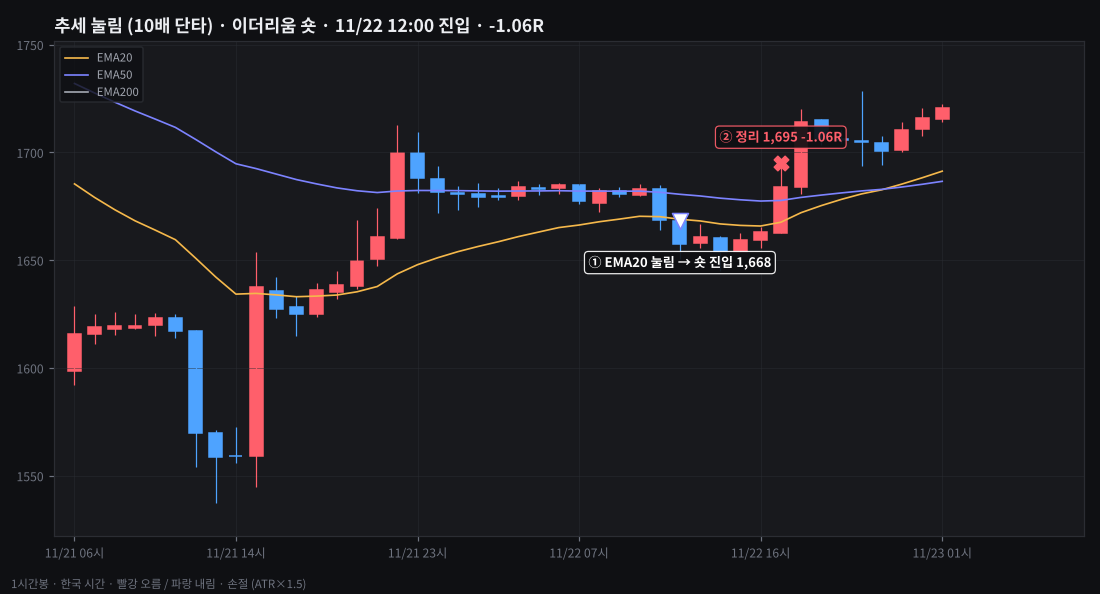
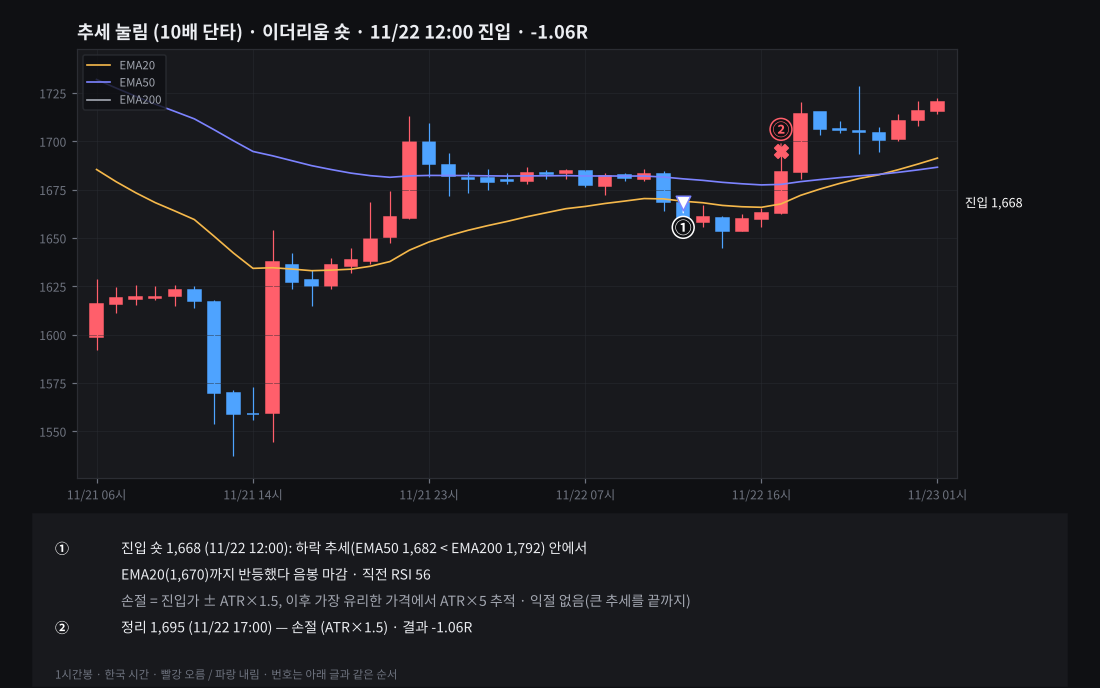
매매 차트 개선(형: 글·차트 겹침): 차트엔 번호만, 아래 글 칸에 왜·어느 구간에서 샀는지·손절/목표 근거·정리 이유·결과. 끝난 매매마다 자동 피드백(유리/불리 R, 손절 뒤 흐름, 2년 시험 특징 칸 성적), 30번↑ 쌓이면 종합 피드백
Claude-Session: https://claude.ai/code/session_01MmLTdxLKFpnJAK7WRLz1e2

diff --git a/assets/desk.js b/assets/desk.js
@@ -269,7 +269,7 @@ const DeskUI = (() => {
           <h5>진입 이유</h5><ul>${(j.why_in || []).map((x) => `<li>${esc(x)}</li>`).join("")}</ul>
           ${(j.partial || []).map((x) => `<h5>부분 익절</h5><p class="small">${tm(x.at)} · ${x.px} · ${esc(x.why)} · ${x.pnl >= 0 ? "+" : ""}$${x.pnl}</p>`).join("")}
           ${j.exit != null ? `<h5>${j.R > 0 ? "익절" : "손절"} 이유</h5><p class="small">${tm(j.out_at)} · ${j.exit} · ${esc(j.why_out)} · ${j.pnl >= 0 ? "+" : ""}$${j.pnl} · ${j.bars}봉 보유 · 최대 유리 +${j.mfe}% / 최대 불리 −${j.mae}%</p>
-          <h5>피드백</h5><ul>${(j.feedback || []).map((x) => `<li>${esc(x)}</li>`).join("")}</ul>` : ""}
+          <h5>피드백</h5><ul>${(j.feedback || []).concat(((SM.charts || {})[`${j.tag === "AMD" ? "amd" : j.tag === "오더블록" ? "ob" : SM.acct === "amd" ? "amd" : "ob"}:${j.sym}|${String(j.in_at || "").slice(0, 16).replace("T", " ")}`] || {}).fb || []).map((x) => `<li>${esc(x)}</li>`).join("")}</ul>` : ""}
         </div></details>`).join("")}
       ${(O && O.skips && O.skips.length) ? `<details class="ob-j"><summary><span class="ob-j-t"><b>진입 안 한 자리 ${O.skips.length}개</b> <span class="muted small">구간에 안 닿음 · 무효화 · 손익비 부족</span></span></summary><div class="ob-j-b"><ul>${O.skips.slice(-30).reverse().map((x) => `<li class="small">${esc(COINNM[x.sym] || x.sym)} ${esc(x.side)} ${x.entry} — ${esc(x.why)}</li>`).join("")}</ul></div></details>` : ""}`;
   }

diff --git a/index.html b/index.html
@@ -727,7 +727,7 @@
   <script src="assets/home.js?v=b6ddf735"></script>
   <script src="assets/company.js?v=89c6430f"></script>
   <script src="assets/invest.js?v=d55ba1ff"></script>
-  <script src="assets/desk.js?v=def69a6f"></script>
+  <script src="assets/desk.js?v=fc7e649d"></script>
   <script src="assets/gloss.js?v=af1d950e"></script>
   <script src="assets/app.js?v=3cbac30c"></script>
 </body>

diff --git a/scripts/trade_charts.py b/scripts/trade_charts.py
@@ -76,13 +76,14 @@ def collect():
             k = key_of(J["sym"], J["in_at"], kind)
             jobs.setdefault(k, dict(kind=kind, sym=J["sym"], side=-1 if J.get("side") == "숏" else 1, t_in=J["in_at"], fill=J.get("fill"), stop=J.get("stop"),
                                     target=J.get("target"), t_out=J.get("out_at"), exit=J.get("exit"), R=J.get("R"), why_out=J.get("why_out"),
-                                    partial=J.get("partial") or [], ob=J.get("ob"), amd=parse_amd(J) if kind == "amd" else None, accts=[]))["accts"].append(fn)
+                                    partial=J.get("partial") or [], ob=J.get("ob"), amd=parse_amd(J) if kind == "amd" else None, why_list=J.get("why_in") or [],
+                                    feat=J.get("feat"), risk_pct=J.get("risk_pct"), accts=[]))["accts"].append(fn)
         for T in S.get("trades") or []:
             sym = T.get("sym") or "BTC-USD"
             if kind == "tr" or (kind.startswith("ma") and T.get("in") and T.get("out")):
                 k = key_of(sym, T["in"], kind)
                 jobs.setdefault(k, dict(kind=kind, sym=sym, side=T.get("side", 1), t_in=T["in"], fill=T.get("entry"), stop=None, target=None,
-                                        t_out=T.get("out"), exit=T.get("exit"), R=T.get("R"), pl=T.get("pl"), why_out=T.get("why"), why_in=T.get("entry_why"), accts=[]))["accts"].append(fn)
+                                        t_out=T.get("out"), exit=T.get("exit"), R=T.get("R"), pl=T.get("pl"), why_out=T.get("why"), why_in=T.get("entry_why"), feat=T.get("feat"), accts=[]))["accts"].append(fn)
         pos = S.get("pos")
         if isinstance(pos, dict) and pos and "side" in pos and ("since" in pos or "at" in pos) and kind == "ma10":
             pos = {"BTC-USD": pos}
@@ -95,12 +96,12 @@ def collect():
                 continue
             k = key_of(sym, t_in, kind)
             jobs.setdefault(k, dict(kind=kind, sym=sym, side=p.get("side", 1), t_in=t_in, fill=p.get("entry"), stop=p.get("stop"), target=None, t_out=None, exit=None,
-                                    why_in=p.get("why"), accts=[]))["accts"].append(fn)
+                                    why_in=p.get("why"), feat=p.get("feat"), accts=[]))["accts"].append(fn)
     return jobs
 
 
 def sig(J):
-    return hashlib.md5(json.dumps({k: J.get(k) for k in ("t_out", "exit", "stop", "partial")}, sort_keys=True, default=str).encode()).hexdigest()[:8]
+    return "v2" + hashlib.md5(json.dumps({k: J.get(k) for k in ("t_out", "exit", "stop", "partial")}, sort_keys=True, default=str).encode()).hexdigest()[:8]
 
 
 def bars(sym, iv):
@@ -110,11 +111,100 @@ def bars(sym, iv):
     return d[["open", "high", "low", "close"]]
 
 
+EDGE = None
+
+
+def edge_notes(J):
+    """진입 순간 특징을 2년 시험 '특징 지도'(data/us/edge.json)와 비교 — 이 자리가 과거에 좋은 칸이었나"""
+    global EDGE
+    if EDGE is None:
+        EDGE = j("edge.json") or {}
+    fk = {"ob": "ob", "amd": "amd", "tr": "tr10"}.get(J["kind"]); F = (EDGE.get("formulas") or {}).get(fk) if fk else None
+    ft = J.get("feat") or {}
+    if not F or not ft:
+        return []
+    lab = EDGE.get("labels", {}); out = []
+    for c in list(F.get("spread", {}))[:3]:
+        v = ft.get(c)
+        if v is None or c not in F["map"]:
+            continue
+        for b in F["map"][c]:
+            try:
+                lo, hi = (float(x) for x in b["b"].split("~"))
+            except ValueError:
+                if str(b["b"]) == str(v):
+                    out.append(f"{lab.get(c, c)} {v} → 2년 시험 같은 칸 평균 {b['R']:+.2f}R ({b['n']}번)")
+                break
+            if lo <= float(v) <= hi:
+                out.append(f"{lab.get(c, c)} {v} → 2년 시험 같은 칸 평균 {b['R']:+.2f}R ({b['n']}번)"); break
+    return out
+
+
+def feedback(J, d):
+    """끝난 매매 하나하나 자동 피드백 (11/23 형: 매매 끝나면 하나씩 피드백 → 쌓이면 종합 피드백)"""
+    if not J.get("t_out") or J.get("exit") is None or not J.get("fill"):
+        return []
+    s = J["side"]; e = J["fill"]; t0, t1 = ts(J["t_in"]), ts(J["t_out"])
+    risk = abs(e - J["stop"]) if J.get("stop") else (e * 0.07 if J["kind"].startswith("ma") else None)
+    held = d[(d.index > t0) & (d.index <= t1)]; after = d[(d.index > t1)].iloc[:24]      # 진입 봉은 빼고 (봉 안에서 진입 전 움직임이 섞임)
+    fb = []
+    if risk and len(held):
+        mfe = ((held.high.max() - e) if s > 0 else (e - held.low.min())) / risk; mae = ((e - held.low.min()) if s > 0 else (held.high.max() - e)) / risk
+        fb.append(f"보유 {len(held)}봉 동안 가장 유리했을 때 {mfe:+.1f}R · 가장 불리했을 때 −{max(0, mae):.1f}R")
+        R = J.get("R")
+        if R is not None and R <= -0.8:
+            if mfe >= 1:
+                fb.append("1R 넘게 갔다가 손절로 끝남 → '1R에서 본전 손절' 규칙이 있었으면 손실 없이 끝났을 자리 (같은 사례가 쌓이면 시험)")
+            if len(after) and J.get("target") and ((after.low.min() <= J["target"]) if s < 0 else (after.high.max() >= J["target"])):
+                fb.append("손절 뒤 24봉 안에 목표가까지 감 → 방향은 맞았는데 손절이 좁았던 자리 (쌓이면 손절 폭 시험)")
+            elif len(after):
+                fb.append("손절 뒤에도 반대로 더 감 → 손절이 맞았던 자리 (진입 근거가 틀림)")
+        if R is not None and R > -0.8 and len(after):
+            more = ((e - after.low.min()) if s < 0 else (after.high.max() - e)) / risk
+            if more >= 2:
+                fb.append(f"정리 뒤 24봉 안에 진입가 기준 {more:+.1f}R까지 더 감 → 나머지를 더 길게 가져가는 방법(추적 손절)을 시험할 거리")
+    fb += edge_notes(J)
+    return fb
+
+
+def steps(J):
+    """그림 아래 글: 왜·어디서 샀는지, 손절·목표 근거, 어떻게 끝났는지"""
+    sd = "숏" if J["side"] < 0 else "롱"; k = J["kind"]; L = []
+    W = J.get("why_list") or []
+    tk = lambda t: ts(t).tz_convert(KST).strftime("%m/%d %H:%M") if t else ""
+    if k == "ob":
+        ob = J.get("ob") or {}
+        lo, hi = sorted([J["fill"], J["stop"]])
+        L.append(("①", f"오더블록: {tk(ob.get('t'))} — " + (re.sub(r" \(.*?UTC\)", "", W[0]) if W else "") + (" · " + W[2].split(" — ")[0] if len(W) > 2 else "")))
+        L.append(("②", f"진입: 가격이 오더블록 구간 {f(lo)}~{f(hi)}로 되돌아와 {'아래쪽 경계' if J['side'] < 0 else '위쪽 경계'} {f(J['fill'])}에 닿을 때 {sd} ({tk(J['t_in'])})"))
+        L.append(("", f"손절 {f(J['stop'])} = 오더블록 꼬리 끝 ({J.get('risk_pct') or ''}%) · 1차 목표 {f(J.get('target'))} = 오더블록 직후 파동 {'저점' if J['side'] < 0 else '고점'}"))
+    elif k == "amd":
+        A = J.get("amd") or {}
+        L.append(("①", f"매집: {tk(A.get('box_from'))}부터 24봉 박스 {f(A.get('blo'))}~{f(A.get('bhi'))} · 거래가 가장 많이 몰린 가격(POC) {f(A.get('poc'))}"))
+        if A.get("ext"):
+            L.append(("②", f"조작: 박스 {'위' if J['side'] < 0 else '아래'} {f(A['ext'])}까지 가짜로 뚫었다가 {tk(A.get('reclaim_at'))} 봉에 박스 안으로 복귀"))
+        L.append(("③", f"진입: POC 쪽으로 되돌아올 때 {sd} {f(J['fill'])} ({tk(J['t_in'])}) — " + (W[2].split(" · ")[0].replace("③ 진입: ", "") if len(W) > 2 else "")))
+        L.append(("", f"손절 {f(J['stop'])} = 조작 꼬리 끝 바깥 · 목표 {f(J.get('target'))} = 손익비 2"))
+    elif k == "tr":
+        L.append(("①", f"진입 {sd} {f(J['fill'])} ({tk(J['t_in'])}): {J.get('why_in') or ''}"))
+        L.append(("", f"손절 = 진입가 ± ATR×1.5, 이후 가장 유리한 가격에서 ATR×5 추적 · 익절 없음(큰 추세를 끝까지)"))
+    else:
+        L.append(("①", f"진입 {sd} {f(J['fill'])} ({tk(J['t_in'])}): 일봉 종가가 50일선 {'아래' if J['side'] < 0 else '위'} → {sd} (반대로 넘으면 정리)"))
+    n = len([x for x in L if x[0]])
+    for p in J.get("partial") or []:
+        n += 1; L.append(("①②③④⑤⑥"[n - 1], f"절반 익절 {f(p['px'])} ({tk(p['at'])}) — {p.get('why', '')} · 나머지는 손절을 본전으로"))
+    if J.get("t_out") and J.get("exit") is not None:
+        n += 1; res = f"{J['R']:+.2f}R" if J.get("R") is not None else (f"{J['pl'] * 100:+.1f}%" if J.get("pl") is not None else "")
+        L.append(("①②③④⑤⑥"[n - 1], f"정리 {f(J['exit'])} ({tk(J['t_out'])}) — {J.get('why_out') or ''} · 결과 {res}"))
+    return L
+
+
 def draw(J, d, path):
     import matplotlib
     matplotlib.use("Agg")
     import matplotlib.pyplot as plt
     from matplotlib import font_manager as fm
+    import textwrap
     for fam in ("Noto Sans CJK KR", "Noto Sans CJK JP", "NanumGothic"):
         if any(fam in x.name for x in fm.fontManager.ttflist):
             plt.rcParams["font.family"] = fam; break
@@ -130,73 +220,88 @@ def draw(J, d, path):
     x = d[(d.index >= start) & (d.index <= end)]
     if len(x) < 5:
         return False
-    idx = {t: i for i, t in enumerate(x.index)}
     def xi(t):
-        t = ts(t); k = x.index.searchsorted(t)
+        k = x.index.searchsorted(ts(t))
         return min(max(k, 0), len(x) - 1)
-    fig, ax = plt.subplots(figsize=(10, 5.4), dpi=110)
-    fig.patch.set_facecolor(C["bg"]); ax.set_facecolor(C["panel"])
+    ST = steps(J); FB = J.get("fb") or []
+    lines = []
+    for no, tx in ST:
+        for i, w in enumerate(textwrap.wrap(tx, 74)):
+            lines.append(((no + " ") if i == 0 and no else "    ", w, C["text"] if no else C["muted"]))
+    if FB:
+        lines.append(("", "", C["text"]))
+        for i, t_ in enumerate(FB):
+            for k_, w in enumerate(textwrap.wrap(t_, 74)):
+                lines.append(("피드백 " if i == 0 and k_ == 0 else "        ", ("· " if k_ == 0 else "  ") + w, C["accent"]))
+    th = 0.24 * len(lines) + 0.5
+    fig = plt.figure(figsize=(10, 4.8 + th), dpi=110); fig.patch.set_facecolor(C["bg"])
+    H_ = 4.8 + th
+    ax = fig.add_axes([0.07, (th + 0.45) / H_, 0.8, 3.9 / H_])
+    ax.set_facecolor(C["panel"])
     for s_ in ax.spines.values():
         s_.set_color(C["line"])
     ax.tick_params(colors=C["faint"], labelsize=8); ax.grid(color=C["line"], lw=.5, alpha=.6)
-    o, h, l, c = x.open.values, x.high.values, x.low.values, x.close.values
-    for i in range(len(x)):
+    o, h, l, c = x.open.values, x.high.values, x.low.values, x.close.values; n = len(x)
+    for i in range(n):
         col = C["up"] if c[i] >= o[i] else C["down"]
         ax.vlines(i, l[i], h[i], color=col, lw=.8); ax.add_patch(plt.Rectangle((i - .32, min(o[i], c[i])), .64, max(abs(c[i] - o[i]), (h[i] - l[i]) * .01), color=col))
     if J["kind"] == "tr":
-        cc = d.close
-        for n, colr in ((20, C["warn"]), (50, C["accent"]), (200, C["muted"])):
-            e = cc.ewm(span=n, adjust=False).mean().reindex(x.index)
-            ax.plot(range(len(x)), e.values, color=colr, lw=1.1, label=f"EMA{n}")
+        for nn, colr in ((20, C["warn"]), (50, C["accent"]), (200, C["muted"])):
+            ax.plot(range(n), d.close.ewm(span=nn, adjust=False).mean().reindex(x.index).values, color=colr, lw=1.1, label=f"EMA{nn}")
     if daily:
-        m50 = d.close.rolling(50).mean().reindex(x.index)
-        ax.plot(range(len(x)), m50.values, color=C["warn"], lw=1.4, label="50일선")
-    side = J["side"]; sd = "숏" if side < 0 else "롱"; i0 = xi(t_in); n = len(x)
-    lab = lambda xx, yy, s, col, dy=0: ax.annotate(s, (xx, yy), xytext=(0, dy), textcoords="offset points", color=col, fontsize=8.6, fontweight="bold", ha="center",
-                                                   bbox=dict(boxstyle="round,pad=.3", fc=C["bg"], ec=col, lw=.8, alpha=.92))
-    rng = (h.max() - l.min()) or 1
-    step = 1
+        ax.plot(range(n), d.close.rolling(50).mean().reindex(x.index).values, color=C["warn"], lw=1.4, label="50일선")
+    side = J["side"]; i0 = xi(J["t_in"]); rng = (h.max() - l.min()) or 1
+    def mark(xx, yy, s_, col, up_):                       # 동그라미 번호만 (설명은 아래 글에)
+        ax.annotate(s_, (xx, yy), xytext=(0, 14 if up_ else -16), textcoords="offset points", ha="center", va="center", color=col, fontsize=11, fontweight="bold",
+                    bbox=dict(boxstyle="circle,pad=.15", fc=C["bg"], ec=col, lw=1), arrowprops=dict(arrowstyle="-", color=col, lw=.8))
+    nums = iter("①②③④⑤⑥")
     if J["kind"] == "ob" and J.get("ob"):
         ib = xi(J["ob"]["t"]); lo, hi = sorted([J["fill"], J["stop"]])
-        if J["ob"].get("t"):
-            ent = J.get("fill")
-        ax.add_patch(plt.Rectangle((ib - 1.5, lo), max(2, (xi(J["t_out"]) if J.get("t_out") else n - 1) - ib + 2), hi - lo, color=C["accent"], alpha=.30, lw=1.2, ec=C["accent"]))
-        lab(ib, hi if side < 0 else lo, f"① 오더블록 ({pd.Timestamp(J['ob']['t']).tz_convert(KST):%m/%d %H시})", C["accent"], 30 if side < 0 else -34); step = 2
+        ax.add_patch(plt.Rectangle((ib - 1.5, lo), max(2, (xi(J["t_out"]) if J.get("t_out") else n - 1) - ib + 2), hi - lo, color=C["accent"], alpha=.28, lw=1.2, ec=C["accent"]))
+        mark(ib, hi if side < 0 else lo, next(nums), C["accent"], side < 0)
     if J["kind"] == "amd" and J.get("amd"):
         A = J["amd"]; ib = xi(A["box_from"]); ir = xi(A.get("reclaim_at") or J["t_in"])
-        ax.add_patch(plt.Rectangle((ib, A["blo"]), max(1, ir - ib), A["bhi"] - A["blo"], color=C["muted"], alpha=.12, lw=0))
-        ax.hlines(A["poc"], ib, n - 1, color=C["orange"], lw=1, ls="--"); ax.text(n - 1, A["poc"], " POC", color=C["orange"], fontsize=8, va="center")
-        lab((ib + ir) / 2, A["bhi"] if side < 0 else A["blo"], "① 매집 박스 (24봉)", C["muted"], -16 if side < 0 else 14)
+        ax.add_patch(plt.Rectangle((ib, A["blo"]), max(1, ir - ib), A["bhi"] - A["blo"], color=C["muted"], alpha=.13, lw=1, ec=C["muted"]))
+        ax.hlines(A["poc"], ib, n - 1, color=C["orange"], lw=1, ls="--")
+        mark((ib + ir) / 2, A["bhi"] if side > 0 else A["blo"], next(nums), C["muted"], side > 0)
         if A.get("ext"):
-            lab(ir, A["ext"], f"② 조작: 박스 {'위' if side < 0 else '아래'} {f(A['ext'])}까지 가짜 이탈", C["warn"], 14 if side < 0 else -18)
-        step = 3
-    if J.get("stop"):
-        ax.hlines(J["stop"], i0, n - 1, color=C["up"] if side > 0 else C["up"], lw=1, ls=":"); ax.text(n - 1, J["stop"], f" 손절 {f(J['stop'])}", color=C["up"], fontsize=8, va="center")
-    if J.get("target"):
-        ax.hlines(J["target"], i0, n - 1, color=C["ok"], lw=1, ls=":"); ax.text(n - 1, J["target"], f" 목표 {f(J['target'])}", color=C["ok"], fontsize=8, va="center")
-    why = {"ob": "구간 터치 → ", "amd": "POC 되돌림 → ", "tr": "EMA20 눌림 → ", "ma": "50일선 " + ("아래" if side < 0 else "위") + " → ", "ma10": "50일선 " + ("아래" if side < 0 else "위") + " → "}[J["kind"]]
-    ax.scatter([i0], [J["fill"]], marker="v" if side < 0 else "^", s=110, color="#fff", zorder=5, edgecolor=C["accent"])
-    lab(i0, J["fill"], f"{'①②③'[min(step, 3) - 1] if step <= 3 else ''} {why}{sd} 진입 {f(J['fill'])}".replace("  ", " "), "#fff", 24 if side > 0 else -30)
-    k = step + 1
+            mark(ir, A["ext"], next(nums), C["warn"], side < 0)
+    ax.scatter([i0], [J["fill"]], marker="v" if side < 0 else "^", s=90, color="#fff", zorder=5, edgecolor=C["accent"])
+    mark(i0, J["fill"], next(nums), "#fff", side > 0)
     for p in J.get("partial") or []:
-        ip = xi(p["at"]); ax.scatter([ip], [p["px"]], marker="o", s=60, color=C["ok"], zorder=5)
-        lab(ip, p["px"], f"{'①②③④⑤'[min(k, 5) - 1]} 절반 익절 {f(p['px'])}", C["ok"], -50 if side < 0 else 44); k += 1
+        ip = xi(p["at"]); ax.scatter([ip], [p["px"]], s=50, color=C["ok"], zorder=5); mark(ip, p["px"], next(nums), C["ok"], side > 0)
     if J.get("t_out") and J.get("exit") is not None:
         io = xi(J["t_out"]); col = C["ok"] if (J.get("R") or J.get("pl") or 0) > 0 else C["up"]
-        ax.scatter([io], [J["exit"]], marker="X", s=90, color=col, zorder=5)
-        res = f"{J['R']:+.2f}R" if J.get("R") is not None else (f"{J['pl'] * 100:+.1f}%" if J.get("pl") is not None else "")
-        lab(io, J["exit"], f"{'①②③④⑤⑥'[min(k, 6) - 1]} 정리 {f(J['exit'])} {res}", col, 14 if side < 0 else -20)
-    ax.set_xlim(-1, n + 6); ax.set_ylim(l.min() - rng * .08, h.max() + rng * .12)
+        ax.scatter([io], [J["exit"]], marker="X", s=80, color=col, zorder=5); mark(io, J["exit"], next(nums), col, side < 0)
+    right = []                                            # 오른쪽 바깥에 가격 이름표 (차트 위 글자와 안 겹치게)
+    if J.get("stop"):
+        ax.hlines(J["stop"], i0, n - 1, color=C["up"], lw=1, ls=":"); right.append((J["stop"], f"손절 {f(J['stop'])}", C["up"]))
+    if J.get("target"):
+        ax.hlines(J["target"], i0, n - 1, color=C["ok"], lw=1, ls=":"); right.append((J["target"], f"목표 {f(J['target'])}", C["ok"]))
+    right.append((J["fill"], f"진입 {f(J['fill'])}", "#fff"))
+    if J["kind"] == "amd" and J.get("amd"):
+        right.append((J["amd"]["poc"], f"POC {f(J['amd']['poc'])}", C["orange"]))
+    ylo, yhi = l.min() - rng * .06, h.max() + rng * .1; ax.set_ylim(ylo, yhi); ax.set_xlim(-1, n)
+    gap = (yhi - ylo) * .055; placed = []
+    for y, t_, col in sorted(right, key=lambda z: z[0]):
+        yy = max([y] + [p_ + gap for p_ in placed if abs(p_ - y) < gap])
+        placed.append(yy); ax.text(n + .4, yy, t_, color=col, fontsize=8.3, va="center", clip_on=False)
     tk = np.linspace(0, n - 1, 6).astype(int)
     ax.set_xticks(tk); ax.set_xticklabels([x.index[i].tz_convert(KST).strftime("%m/%d" if daily else "%m/%d %H시") for i in tk])
     kindname = {"ob": "오더블록", "amd": "AMD (매집→조작→분산)", "tr": "추세 눌림 (10배 단타)", "ma": "50일선", "ma10": "50일선 (10배)"}[J["kind"]]
     state = "보유 중" if not J.get("t_out") else (f"{J['R']:+.2f}R" if J.get("R") is not None else (f"{J['pl'] * 100:+.1f}%" if J.get("pl") is not None else "끝"))
-    ax.set_title(f"{kindname} · {NM.get(J['sym'], J['sym'])} {sd} · {t_in.tz_convert(KST):%m/%d %H:%M} 진입 · {state}", color=C["text"], fontsize=11.5, loc="left", fontweight="bold")
+    fig.text(.07, (H_ - .3) / H_, f"{kindname} · {NM.get(J['sym'], J['sym'])} {'숏' if side < 0 else '롱'} · {t_in.tz_convert(KST):%m/%d %H:%M} 진입 · {state}",
+             color=C["text"], fontsize=12, fontweight="bold", va="center")
     if J["kind"] in ("tr", "ma", "ma10"):
         ax.legend(loc="upper left", fontsize=7.5, facecolor=C["bg"], edgecolor=C["line"], labelcolor=C["muted"])
-    fig.text(.01, .01, f"{'1시간봉' if not daily else '일봉'} · 한국 시간 · 빨강 오름 / 파랑 내림 · {J.get('why_out') or ''}"[:110], color=C["faint"], fontsize=7.5)
-    fig.tight_layout(rect=(0, .03, 1, 1)); OUT.mkdir(parents=True, exist_ok=True)
-    fig.savefig(path, facecolor=C["bg"]); plt.close(fig)
+    y = (th + .05) / H_; dy = .24 / H_
+    fig.patches.append(plt.Rectangle((.03, .02 / H_), .94, (th + .1) / H_, transform=fig.transFigure, color=C["panel"], zorder=-1))
+    for no, w, col in lines:
+        y -= dy
+        fig.text(.05, y, no, color=C["accent"] if no.startswith("피드백") else "#fff", fontsize=9.2, fontweight="bold", va="center")
+        fig.text(.11, y, w, color=col, fontsize=9.2, va="center")
+    fig.text(.05, .06 / H_ + 0.004, f"{'1시간봉' if not daily else '일봉'} · 한국 시간 · 빨강 오름 / 파랑 내림 · 번호는 아래 글과 같은 순서", color=C["faint"], fontsize=7.5)
+    OUT.mkdir(parents=True, exist_ok=True); fig.savefig(path, facecolor=C["bg"]); plt.close(fig)
     return True
 
 
@@ -220,8 +325,9 @@ def run(need_only=False):
         name = re.sub(r"[^A-Za-z0-9]", "", J["sym"]) + "_" + ts(J["t_in"]).strftime("%Y%m%d%H%M") + "_" + J["kind"] + ".png"
         p = OUT / name
         try:
+            J["fb"] = feedback(J, cache[(J["sym"], iv)])
             if draw(J, cache[(J["sym"], iv)], p):
-                I[k] = dict(png=str(p.relative_to(ROOT)), sig=sig(J), kind=J["kind"], accts=sorted(set(J["accts"])))
+                I[k] = dict(png=str(p.relative_to(ROOT)), sig=sig(J), kind=J["kind"], accts=sorted(set(J["accts"])), fb=J["fb"], R=J.get("R"), done=bool(J.get("t_out")))
                 print("그림:", k, name)
         except Exception as e:
             print("그림 실패", k, e)

diff --git a/scripts/tradebook.py b/scripts/tradebook.py
@@ -181,9 +181,15 @@ def build_html(a=None, b=None):
     out.append("<table><tr><th>계좌</th><th class='num'>지금</th><th class='num'>시작 대비</th><th class='num'>이번 기간</th><th class='num'>이번 기간 매매</th></tr>" + rows + "</table>")
     # 2) 계좌별 기록지 (+ 매매 차트: scripts/trade_charts.py)
     SEEN = set()
+    CH = j("charts/index.json") or {}
     for name, evs, sks in allev:
         if not evs and not sks:
             continue
+        for x in evs:                                     # 끝난 매매마다 자동 피드백 (scripts/trade_charts.py) 붙이기
+            kd, sy, ti = x.get("ck") or (None, None, None)
+            c = CH.get(f"{kd}:{sy}|{str(ti)[:16].replace('T', ' ')}") if kd else None
+            if c and x["kind"] == "판 것" and c.get("fb"):
+                x["fb"] = list(x.get("fb") or []) + [f"자동 리뷰: {t_}" for t_ in c["fb"]]
         h = f"<h3>{e(name)}</h3><table><tr><th>시각</th><th>구분</th><th>종목</th><th class='num'>가격</th><th class='num'>결과</th><th>이유</th></tr>"
         for x in evs:
             res = (f"{x['R']:+.2f}R" if x.get("R") is not None else pct(x.get("pl"))) if x["kind"] == "판 것" else (x.get("res") or "")
@@ -193,7 +199,6 @@ def build_html(a=None, b=None):
                   f"<td class='num {c}'>{e(res)}{' · $' + format(x['usd'], ',.0f') if x.get('usd') is not None else ''}</td><td class='sm'>{e(x['why'])}"
                   + ("".join(f"<div class='fb'>💬 {e(fb)}</div>" for fb in x.get("fb") or []) if x.get("fb") else "") + "</td></tr>")
         h += "</table>" if evs else "</table><p class='sm'>산 것·판 것 없음</p>"
-        CH = j("charts/index.json") or {}
         pics = []
         for x in evs:
             kd, sy, ti = x.get("ck") or (None, None, None)
@@ -208,6 +213,21 @@ def build_html(a=None, b=None):
         out.append(h)
     if not any(evs or sks for _, evs, sks in allev):
         out.append("<p>이번 기간엔 어느 계좌도 사고판 게 없어요.</p>")
+    # 2-1) 종합 피드백 (11/23 형: 하나하나 피드백 → 데이터 쌓이면 종합으로) — 공식별 끝난 실제 매매 30번↑부터
+    agg = []
+    for kd, nm in (("ob", "오더블록"), ("amd", "AMD"), ("tr", "추세 눌림"), ("ma", "50일선"), ("ma10", "50일선 10배")):
+        rs = [v for k_, v in CH.items() if k_.startswith(kd + ":") and v.get("done") and v.get("R") is not None]
+        if len(rs) >= 30:
+            R_ = [v["R"] for v in rs]; fbs = [t_ for v in rs for t_ in v.get("fb", [])]
+            cnt = lambda key: sum(1 for t_ in fbs if key in t_)
+            agg.append(f"<li><b>{nm}</b> 실제 {len(R_)}번 · 승률 {sum(r > 0 for r in R_) / len(R_):.0%} · 평균 {sum(R_) / len(R_):+.2f}R · "
+                       f"1R 넘게 갔다가 손절 {cnt('1R 넘게 갔다가')}번 · 손절 뒤 목표 도달 {cnt('손절이 좁았던')}번 · 정리 뒤 2R↑ 더 감 {cnt('더 길게')}번</li>")
+        else:
+            n_ = len(rs)
+            if n_:
+                agg.append(f"<li>{nm}: 끝난 실제 매매 {n_}/30번 — 30번이 되면 개별 피드백을 모아 종합 피드백으로 바꿔요</li>")
+    if agg:
+        out.append("<h3>종합 피드백</h3><ul class='sm'>" + "".join(agg) + "</ul>")
     # 3) 공식 점검이 바꾼 것 + 확실한 자리 데이터
     K = j("coach.json") or {}
     ch = [x for x in K.get("log", []) if inwin(x.get("at"), a, b)]
